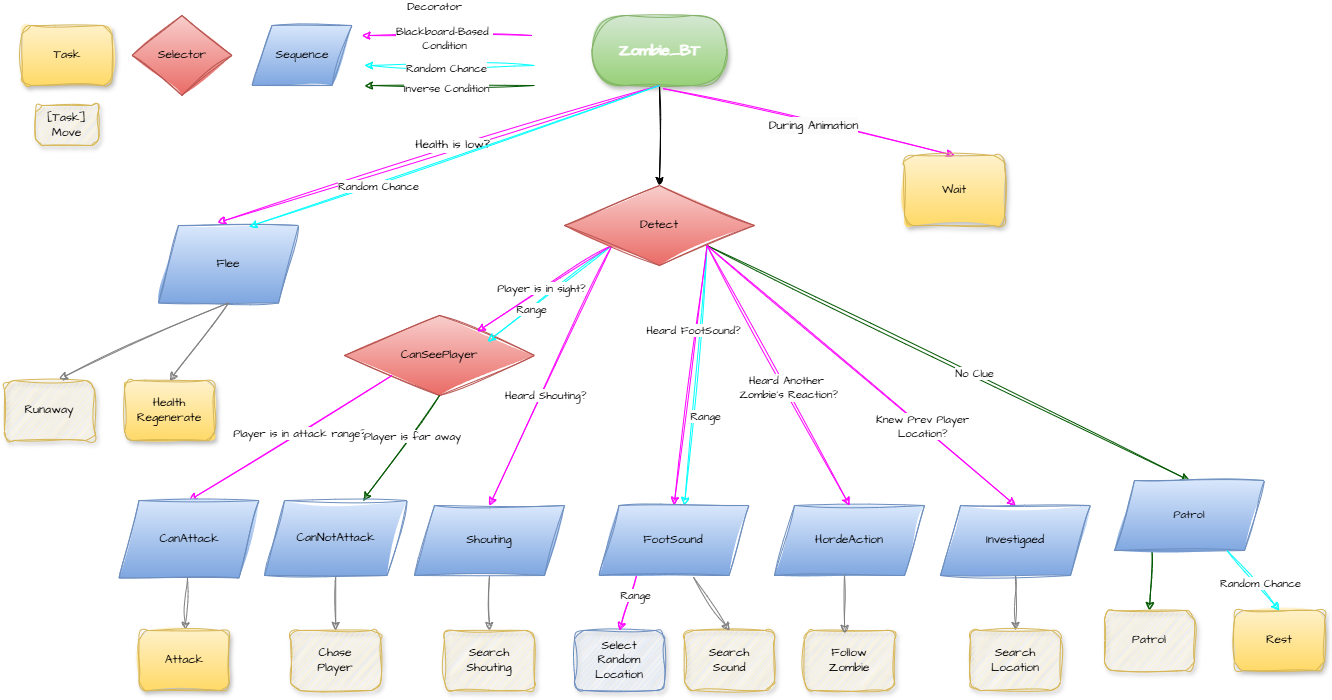
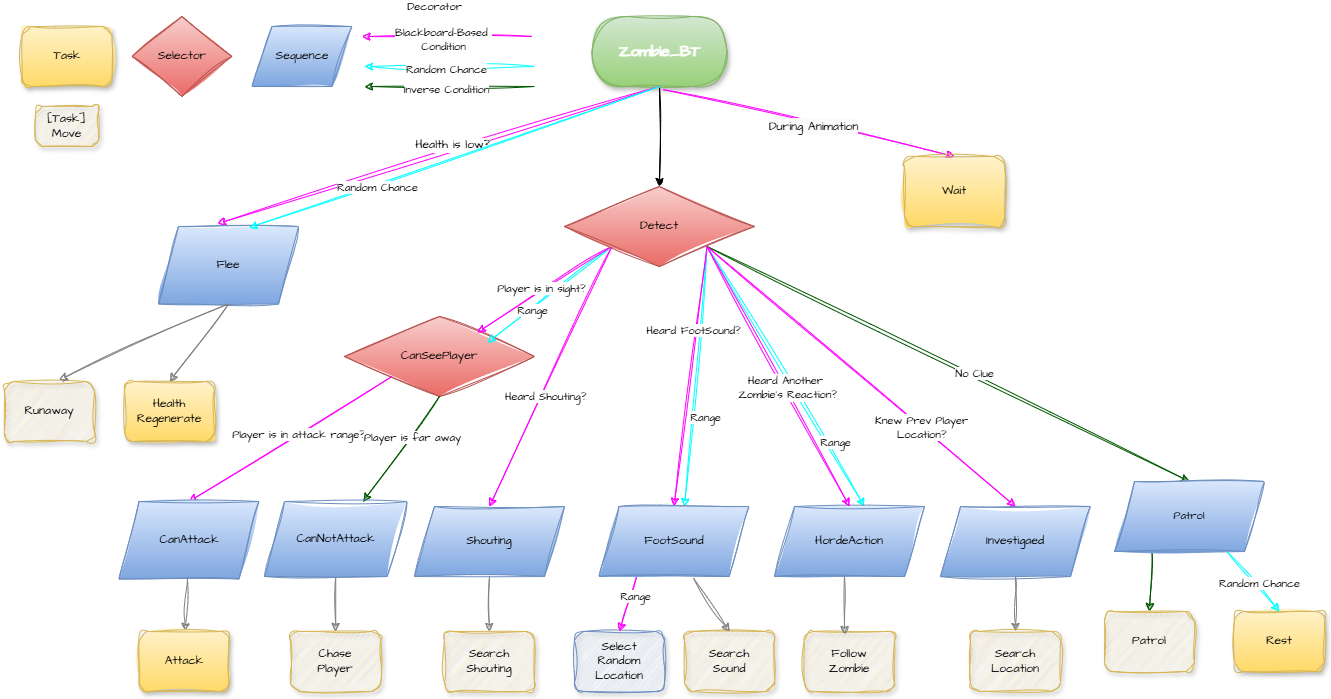
* 호드 사운드도 거리에 따라 포착확률 추가

diff --git a/Server/Game Server/Server/Zombie.cpp b/Server/Game Server/Server/Zombie.cpp
@@ -560,7 +560,7 @@ void Zombie::Attack(int roomid)
 	attackpacket.SerializeToString(&serializedData);
 
 	for (const auto& player : playerDB_BT[roomid]) {
-		iocpServer->IOCP_SendPacket(player.first, serializedData.data(), serializedData.size());	// 싱글톤 패턴 활용
+		iocpServer->IOCP_SendPacket(player.first, serializedData.data(), serializedData.size());	
 	}
 
 	IsAttacking = true;	// 좀비 공격중으로 변경
@@ -1057,7 +1057,7 @@ void Zombie::SetRandomTargetLocation(vector<vector<vector<float>>> target_origin
 	}
 
 #ifdef	ENABLE_BT_FOOTSOUND_SEARCHRANDOMLOCATION_LOG
-	cout << "distance: " << distance << ", radius: " << radius << "@=@=@=@=@=@=" << endl;
+	cout << "distance: " << distance << ", radius: " << radius << "=@=@=@=@=@=@=" << endl;
 #endif
 
 	// 랜덤 탐색 지점(걸을 수 있는) 검색
@@ -1157,7 +1157,7 @@ bool Zombie::CanSeePlayerRandomChance()
 	float the_chance = (float)random_chance(mt);	// random_chance(mt)는 부르는 매 순간 바뀌어서 이렇게 변수에 미리 넣고 사용
 
 #ifdef ENABLE_BT_DETECT_RANDOMCHANCE_LOG
-	cout << "CanSeePlayerRandomChance: " << the_chance << endl;
+	cout << "CanSeePlayerRandomChance: " << the_chance << ", dist: " << dist << endl;
 #endif
 
 	if (dist <= 800) {
@@ -1223,7 +1223,7 @@ bool Zombie::HasFootSoundRandomChance()
 	float the_chance = (float)random_chance(mt);		// random_chance(mt)는 부르는 매 순간 바뀌어서 이렇게 변수에 미리 넣고 사용
 
 #ifdef ENABLE_BT_DETECT_RANDOMCHANCE_LOG
-	cout << "FootSoundRandomChance: " << the_chance << endl;
+	cout << "FootSoundRandomChance: " << the_chance << ", dist: " << dist << endl;
 #endif
 
 	if (dist <= 500) {	
@@ -1272,7 +1272,7 @@ void Zombie::MakeNoise()
 
 
 	// 다른 좀비들 플레이어 발견 소리 포착 체크 (호드 사운드 알리기)
-	vector<Zombie*> zombies = iocpServer->zombieDB_BT[roomid];	
+	vector<Zombie*> zombies = iocpServer->zombieDB_BT[roomid];
 
 	for (auto& zom : zombies) {
 		if (abs(ZombieData.z - zom->ZombieData.z) > 500.f)	// 해당 좀비와 같은 층 좀비만 검사
@@ -1286,7 +1286,37 @@ void Zombie::MakeNoise()
 
 		float dist = sqrt(powf(hzl[0][0][0] - zl[0][0][0], 2) + powf(hzl[0][0][1] - zl[0][0][1], 2)/* + powf(hzl[0][0][2] - zl[0][0][2], 2)*/);	// x, y 좌표 거리만 검사
 
-		if (dist <= CanHearHordeSoundDistance) {
+		bool bHear = false;
+
+		std::random_device rd;
+		std::mt19937 mt(rd());
+
+		std::uniform_int_distribution<int> random_chance(0, 100);		// 0~100
+
+		float the_chance = (float)random_chance(mt);		// random_chance(mt)는 부르는 매 순간 바뀌어서 이렇게 변수에 미리 넣고 사용
+
+#ifdef ENABLE_BT_DETECT_RANDOMCHANCE_LOG
+		cout << "HearGrowlSoundRandomChance: " << the_chance << ", dist: " << dist << endl;
+#endif
+
+		if (dist <= 300.f) {
+			// 100퍼센트의 확률
+			bHear = true;
+		}
+		else if (dist <= 500.f) {
+			if (the_chance >= (100 - 80)) 	// 80퍼센트의 확률
+				bHear = true;
+		}
+		else if (dist <= 800.f) {
+			if (the_chance >= (100 - 60)) 	// 60퍼센트의 확률
+				bHear = true;
+		}
+		else if (dist <= CanHearHordeSoundDistance) {
+			if (the_chance >= (100 - 40)) 	// 40퍼센트의 확률
+				bHear = true;
+		}
+
+		if (bHear == true) {
 #ifdef	ENABLE_BT_LOG
 			cout << "좀비 '#" << zom->ZombieData.zombieID << "' 가 좀비 '#" << ZombieData.zombieID << "' 의 호드 사운드 포착!!!" << endl;
 			cout << endl;

diff --git a/Server/Game Server/Server/ZombieController.cpp b/Server/Game Server/Server/ZombieController.cpp
@@ -112,7 +112,7 @@ void ZombieController::SpawnZombies(int zombieID, int zombieType, Vector3 positi
         new_zombie = new RunningZombie(iocpServer, new_zombie_data);
 
     // zombiedata 벡터에 추가
-    iocpServer->zombieDB[zombie_roomid].emplace_back(new_zombie);  // 싱글톤 패턴 활용
+    iocpServer->zombieDB[zombie_roomid].emplace_back(new_zombie);  
     
     //cout << "Spawned Zombie ID: " << zombieID << ", zombiedata size: " <<   iocpServer->zombieDB[zombie_roomid].size() << endl;
 }

diff --git a/Server/Game Server/Server/Zombie.h b/Server/Game Server/Server/Zombie.h
@@ -87,7 +87,7 @@ public:
 
     const float CanHearShoutDistance = 3000.f;      // 샤우팅 소리 포착 가능 거리 3000cm
 
-    const float CanHearHordeSoundDistance = 600.0f;         // 호드 사운드 포착 가능 거리 600cm
+    const float CanHearHordeSoundDistance = 1000.0f;         // 호드 사운드 포착 가능 거리 1000cm
 
     const float ZombieAttackAnimDuration = 2.63f;    // 좀비 공격 애니메이션 재생 시간 (* 정확히는 2.63초)
 

diff --git a/Server/Game Server/Server/CanSeePlayer.h b/Server/Game Server/Server/CanSeePlayer.h
@@ -67,7 +67,7 @@ public:
 
         bool Prev_CanSeePlayer_result = zom.CanSeePlayer_result;
         if (Prev_CanSeePlayer_result == false && d_result) {    // 플레이어를 처음 발견했거나 플레이어를 놓쳤다가 다시 발견했다면 -> 호드 사운드 재생
-            zom.MakeNoise();    // 싱글톤 패턴 활용
+            zom.MakeNoise();   
         }
 
         zom.CanSeePlayer_result = d_result;
